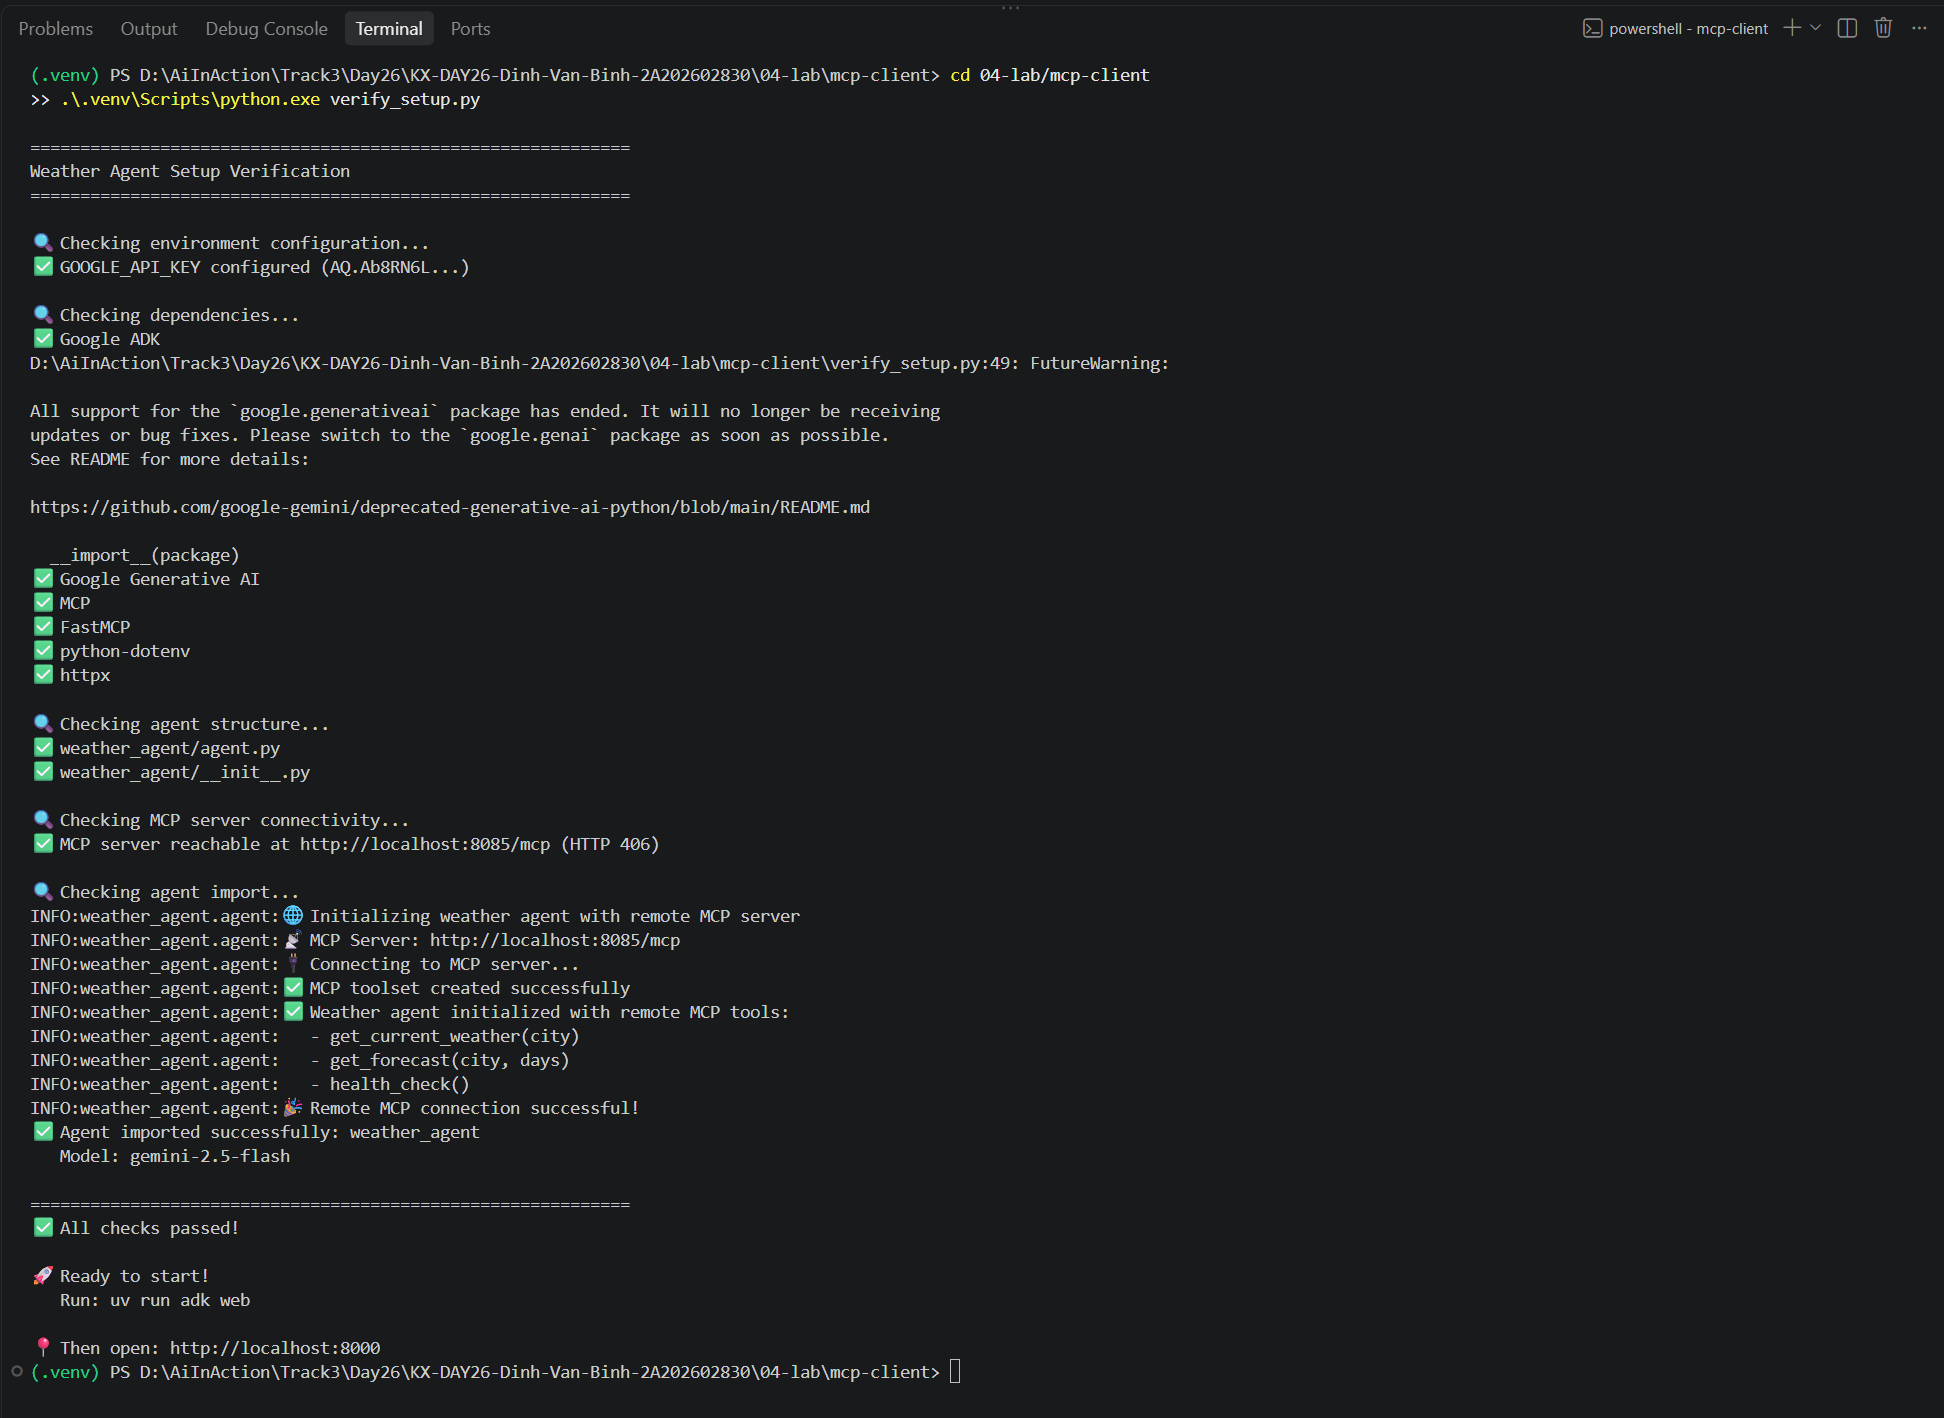
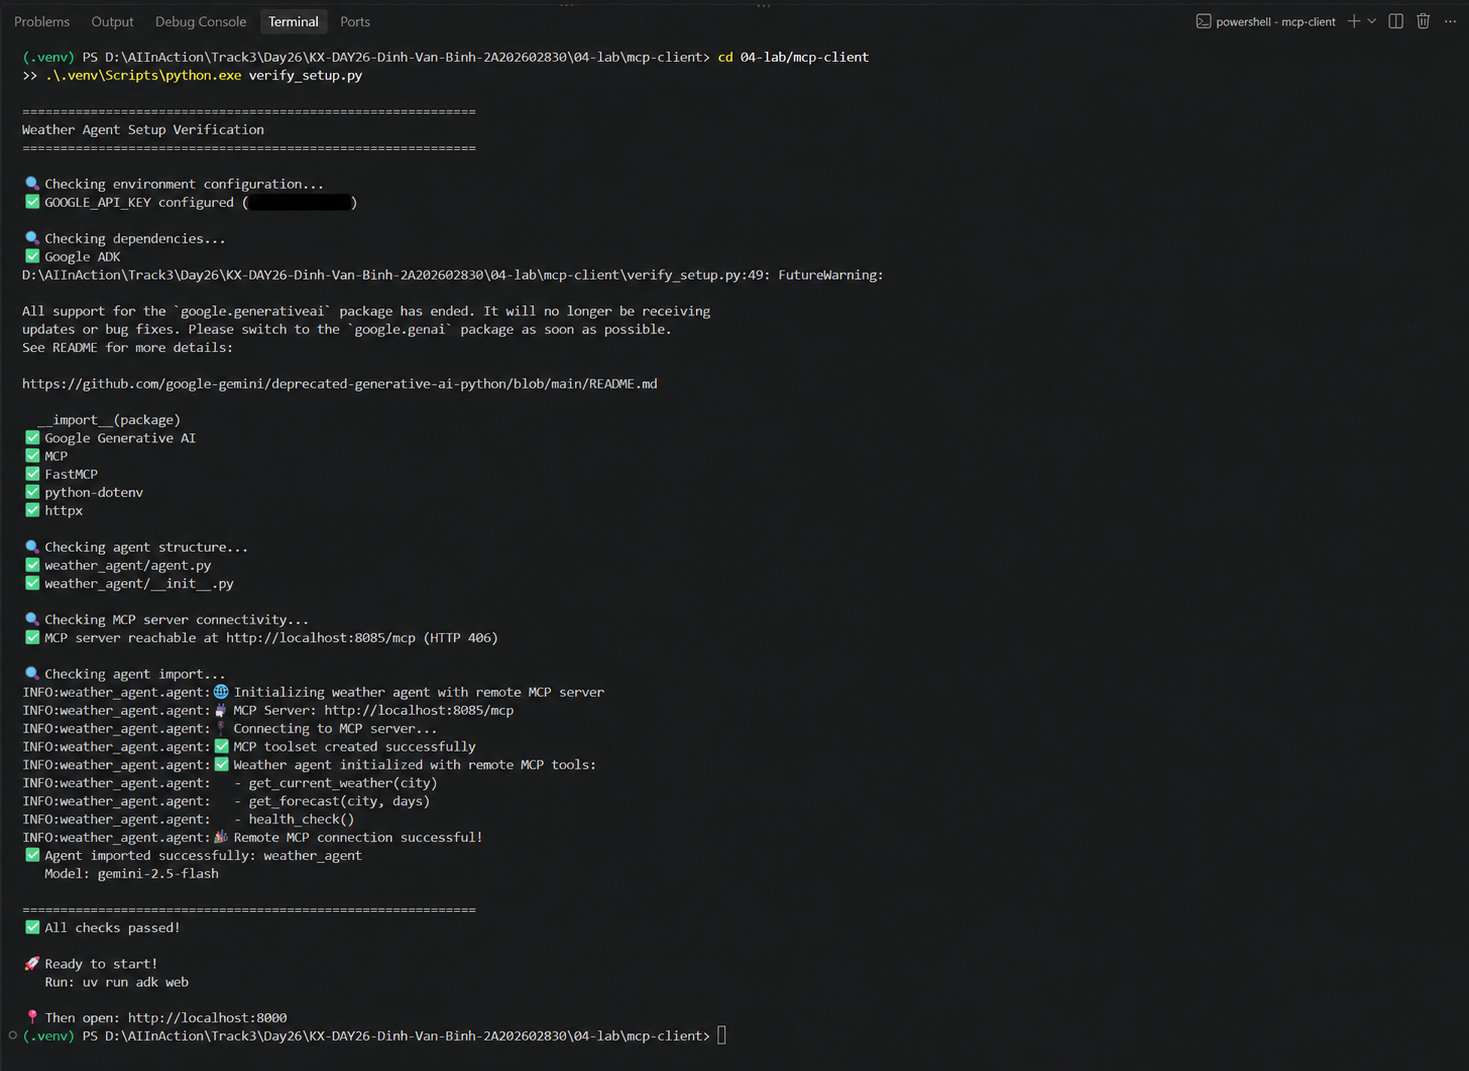
Align submission screenshot names and hide API key preview

Changed region(s): [[0.0, 0.0, 0.6127, 0.8319], [0.0306, 0.8627, 0.4901, 0.986], [0.8577, 0.0, 0.919, 0.0308]]

diff --git a/04-lab/mcp-client/verify_setup.py b/04-lab/mcp-client/verify_setup.py
@@ -27,7 +27,7 @@ def check_environment():
         print("   Get key from: https://aistudio.google.com/apikey")
         return False
     
-    print(f"✅ GOOGLE_API_KEY configured ({api_key[:10]}...)")
+    print("✅ GOOGLE_API_KEY configured")
     return True
 
 def check_dependencies():

diff --git a/README.md b/README.md
@@ -45,7 +45,7 @@ day26-mcp/
 | Phần | Kết quả | Minh chứng |
 |---|---|---|
 | 01 — Function Calling | Gemini yêu cầu gọi tool cho Hà Nội và Đà Nẵng, app thực thi và model tổng hợp | [Ảnh terminal](screenshots/01-function-calling.png) |
-| 02 — MCP Basics | Khám phá tool và gọi thời tiết Hanoi, Danang, Haiphong | [Ảnh terminal](screenshots/02-mcp-basics.png) |
+| 02 — MCP Basics | Khám phá tool và gọi thời tiết Hanoi, Danang, Haiphong | [Ảnh terminal](screenshots/02-mcp-client.png) |
 | 03a — Authentication | Token hợp lệ gọi được tool; token sai bị từ chối HTTP 401 | [Thành công](screenshots/03a-auth-ok.png), [bị từ chối](screenshots/03a-auth-fail.png) |
 | 03b — Tool Registry | Tìm theo tag, chọn `get_weather_v2` v2.0.0 và gọi thành công; tìm theo keyword | [Ảnh terminal](screenshots/03b-registry.png) |
 | 03c — Versioning | Đọc metadata, liệt kê tool, gọi thành công cả v1 và v2 có forecast | [Ảnh terminal](screenshots/03c-versioning.png) |

diff --git a/screenshots/README.md b/screenshots/README.md
@@ -7,7 +7,7 @@ Ngày đối chiếu: 14/10/2026 (Asia/Saigon).
 | Nội dung | Tệp | Xác nhận |
 |---|---|---|
 | Function Calling | [01-function-calling.png](01-function-calling.png) | Model yêu cầu tool, app chạy cho Hà Nội/Đà Nẵng và trả lời cuối |
-| MCP Basics | [02-mcp-basics.png](02-mcp-basics.png) | `list_tools` và `call_tool` cho 3 thành phố |
+| MCP Basics | [02-mcp-client.png](02-mcp-client.png) | `list_tools` và `call_tool` cho 3 thành phố |
 | Authentication thành công | [03a-auth-ok.png](03a-auth-ok.png) | Token hợp lệ liệt kê và gọi được tool |
 | Authentication thất bại | [03a-auth-fail.png](03a-auth-fail.png) | Client đặt wrong-token; server từ chối HTTP 401 |
 | Registry | [03b-registry.png](03b-registry.png) | Tìm tag weather, chọn v2, gọi tool; tìm keyword forecast |
